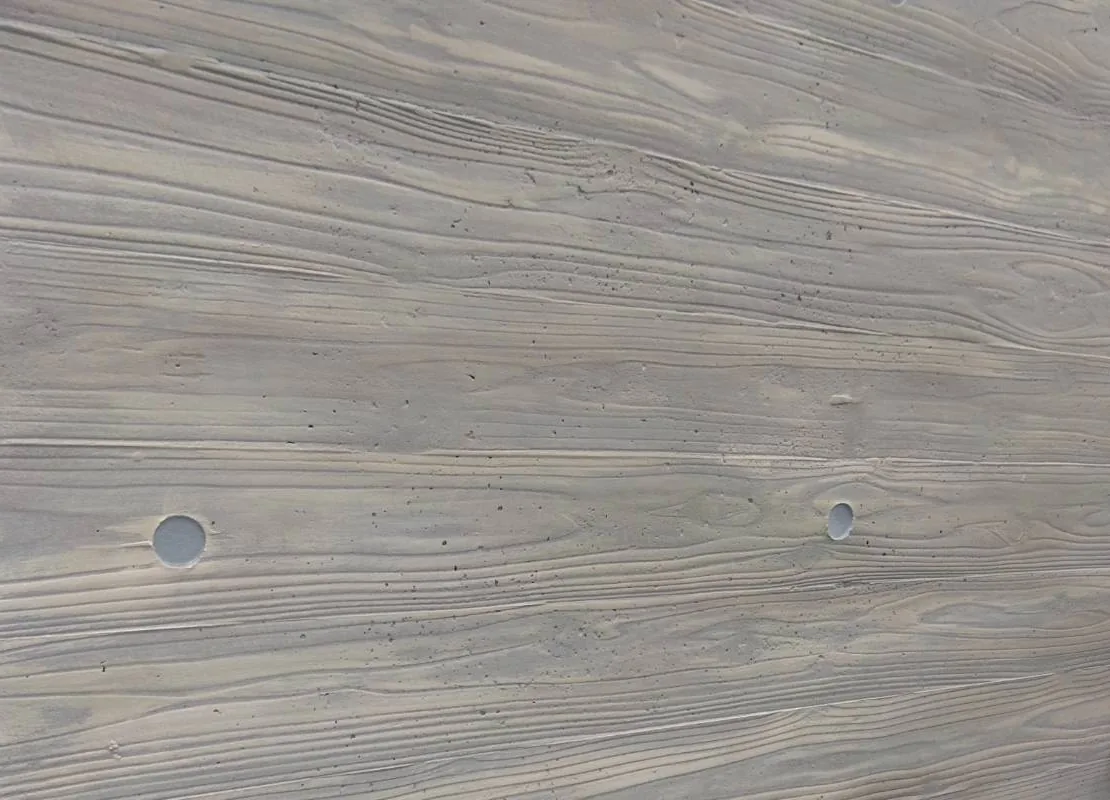
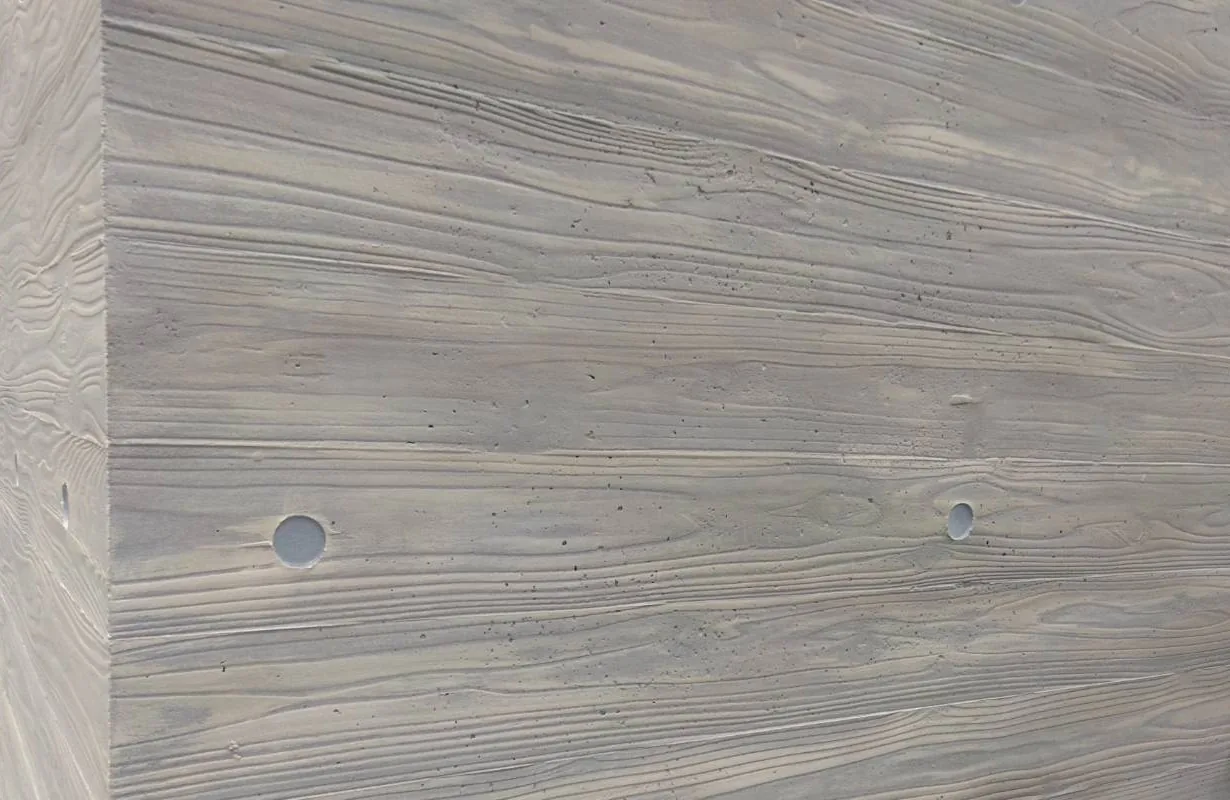
fix: Service と施工実績を md 以上で常に3列にし、文字の大きさ・位置を先方の構成例に合わせる
- Service タイルの文字を左下寄せ・小さめ（英字ラベル 10px、名前は太字16px）に。
  和文セクション見出しに .type-section-ja（24→32px）を追加し、Service /
  施工実績 / 発注フローで使う（構成例の控えめな見出しに合わせた）
- HYOHEKI パネルの文字も控えめに
- エイジングのタイル写真は自転車だけ外して壁の角を残す切り抜きに変え、
  縦長に切られても角が消えないよう左寄せで表示
- 施工実績カードはタグ・工期が狭い幅で折り返しても崩れないように

Claude-Session: https://claude.ai/code/session_01PLV7HwG22zN7FzoUgPtod7

diff --git a/src/components/ServiceTriptych.tsx b/src/components/ServiceTriptych.tsx
@@ -11,10 +11,11 @@ import { SERVICE_CATEGORY_LIST } from "@/lib/serviceCategories";
 // 上段: モルタル／内装／エイジング、下段: 特殊塗装／氷壁（2マス分）。
 // 氷壁だけ写真を2マス分に敷き、右半分を透かして説明文を載せ、看板商品として目立たせている。
 // （それ以前は上段3枚＋下段2枚の幅いっぱいのタイルだった）
-const TILE_IMAGES: Record<string, { img: string; alt: string }> = {
+const TILE_IMAGES: Record<string, { img: string; alt: string; position?: string }> = {
   mortar: { img: "/service-mortar.jpg", alt: "モルタル造形で仕上げた岩肌の壁" },
   interior: { img: "/service-interior.webp", alt: "曲面の什器で構成した店舗内装" },
-  aging: { img: "/service-aging.webp", alt: "木目を再現したエイジング塗装の壁" },
+  // 左端に壁の角を残した切り抜きなので、縦長に切られる PC でも角が消えないよう左寄せ
+  aging: { img: "/service-aging.webp", alt: "木目を再現したエイジング塗装の壁", position: "object-left" },
   special: { img: "/service-special.webp", alt: "特殊塗装による凹凸のある壁面" },
   hyoheki: { img: "/service-hyoheki.webp", alt: "氷壁で仕上げた通路" },
 };
@@ -71,8 +72,8 @@ export default function ServiceTriptych() {
           src={image.img}
           alt={image.alt}
           fill
-          className="object-cover"
-          sizes="(max-width: 768px) 100vw, (max-width: 1024px) 50vw, 33vw"
+          className={`object-cover ${image.position ?? ""}`}
+          sizes="(max-width: 768px) 100vw, 33vw"
         />
         {/* 商標登録出願中のバッジ。氷壁だけを他より目立たせる狙いなので、
             オーバーレイの外（画像の左上）に金枠で常時出している */}
@@ -80,11 +81,11 @@ export default function ServiceTriptych() {
           <span className="trademark-badge">商標登録出願中</span>
         )}
         <div className="triptych-overlay">
-          <div className="text-center">
-            <p className="type-meta uppercase tracking-[0.4em] text-gold mb-2">
+          <div>
+            <p className="text-[10px] uppercase tracking-[0.35em] text-gold mb-2">
               {cat.en}
             </p>
-            <p className="type-heading italic silver-grad">{cat.name}</p>
+            <p className="type-card-title font-bold text-white">{cat.name}</p>
           </div>
         </div>
       </a>
@@ -100,17 +101,16 @@ export default function ServiceTriptych() {
             見出し「事業内容・仕上げ技法」は 2026-09-17 の構成例に合わせて追加した */}
         <div className="text-center mb-10 md:mb-14">
           <p className="type-label text-gold mb-4">Service</p>
-          <h2 className="type-display-ja silver-grad">事業内容・仕上げ技法</h2>
+          <h2 className="type-section-ja silver-grad">事業内容・仕上げ技法</h2>
         </div>
 
-        {/* 列数: スマホ1列 → タブレット2列 → PC3列。2列でも「氷壁」と説明パネルは
-            3段目で隣り合う（5番目と6番目）ので、どの幅でも氷壁は2マス続きで見える */}
-        <div className="grid grid-cols-1 md:grid-cols-2 lg:grid-cols-3 md:auto-rows-fr gap-px bg-white/5">
+        {/* 列数: スマホ1列 → md 以上は先方の構成例どおり3列×2段 */}
+        <div className="grid grid-cols-1 md:grid-cols-3 md:auto-rows-fr gap-px bg-white/5">
           {SERVICE_CATEGORY_LIST.filter((c) => c.id !== "hyoheki").map((cat, i) => renderTile(cat, i))}
 
           {/* 氷壁: 2マス分に写真を1枚敷き、左半分は他と同じタイル（一覧へのリンク）、
               右半分は写真を暗く透かした上に説明文（先方指示「文字は透過させる」）。
-              タブレット（2列）では3段目の全幅、スマホ（1列）では写真の下に説明文が続く */}
+              スマホ（1列）では写真の下に説明文が続く */}
           <div
             className="tile-item opacity-0 relative overflow-hidden bg-[#0a0a0a] md:col-span-2"
             style={tileStyle(SERVICE_CATEGORY_LIST.length - 1)}
@@ -132,29 +132,30 @@ export default function ServiceTriptych() {
                   <span className="trademark-badge">商標登録出願中</span>
                 )}
                 <div className="triptych-overlay">
-                  <div className="text-center">
-                    <p className="type-meta uppercase tracking-[0.4em] text-gold mb-2">
+                  <div>
+                    <p className="text-[10px] uppercase tracking-[0.35em] text-gold mb-2">
                       {HYOHEKI.en}
                     </p>
-                    <p className="type-heading italic silver-grad">{HYOHEKI.name}</p>
+                    <p className="type-card-title font-bold text-white">{HYOHEKI.name}</p>
                   </div>
                 </div>
               </a>
 
               {/* 右: 写真を透かして文言。左端をわずかに明るく残して1枚の写真が続いて見えるようにする */}
               <div className="relative bg-gradient-to-r from-black/70 via-black/80 to-black/85">
-                <div className="h-full flex flex-col justify-center p-7 md:p-8 lg:p-10">
-                  <p className="type-meta uppercase tracking-[0.4em] text-gold mb-3">
+                {/* 文字の大きさは先方の構成例に合わせて控えめ（見出し 28〜36px、本文 12〜13px） */}
+                <div className="h-full flex flex-col justify-center p-6 md:p-6 lg:p-8">
+                  <p className="text-[10px] uppercase tracking-[0.35em] text-gold mb-3">
                     Signature Finish
                   </p>
                   <p className="font-heading text-white leading-none tracking-[0.04em]"
-                     style={{ fontSize: "clamp(2rem, 3.4vw, 2.75rem)" }}>
+                     style={{ fontSize: "clamp(1.75rem, 2.6vw, 2.25rem)" }}>
                     HYOHEKI
                   </p>
-                  <p className="type-body text-white/70 tracking-[0.3em] mt-2">- 氷壁 -</p>
-                  <div className="w-8 h-px bg-gold my-5" />
-                  <p className="type-body-sm text-white/85 leading-[1.9] mb-3">{HYOHEKI_LEAD}</p>
-                  <p className="type-body-sm text-white/60 leading-[1.9]">{HYOHEKI_BODY}</p>
+                  <p className="type-body-sm text-white/70 tracking-[0.3em] mt-2">- 氷壁 -</p>
+                  <div className="w-8 h-px bg-gold my-4" />
+                  <p className="text-[12px] lg:text-[13px] text-white/85 leading-[1.8] mb-3">{HYOHEKI_LEAD}</p>
+                  <p className="text-[12px] lg:text-[13px] text-white/60 leading-[1.8]">{HYOHEKI_BODY}</p>
                 </div>
               </div>
             </div>

diff --git a/src/components/WorksSection.tsx b/src/components/WorksSection.tsx
@@ -74,11 +74,11 @@ export default function WorksSection() {
             気の利いた別の言葉に置き換えないこと */}
         <div className="reveal text-center mb-14">
           <p className="type-label text-gold mb-4">Works</p>
-          <h2 className="type-display-ja silver-grad">施工実績</h2>
+          <h2 className="type-section-ja silver-grad">施工実績</h2>
         </div>
 
-        {/* 3枚のカード。lg 以上で3列、md で2列（3枚目は左寄せ）、それ未満は1列 */}
-        <div className="grid grid-cols-1 md:grid-cols-2 lg:grid-cols-3 gap-px bg-white/5">
+        {/* 3枚のカード。md 以上は先方の構成例どおり3列、それ未満は1列 */}
+        <div className="grid grid-cols-1 md:grid-cols-3 gap-px bg-white/5">
           {projects.map((project, i) => (
             <article
               key={project.title}
@@ -92,15 +92,15 @@ export default function WorksSection() {
                   alt={project.alt}
                   fill
                   className="object-cover"
-                  sizes="(max-width: 768px) 100vw, (max-width: 1024px) 50vw, 33vw"
+                  sizes="(max-width: 768px) 100vw, 33vw"
                 />
                 <div className="absolute inset-0 bg-black/15" />
               </div>
 
-              <div className="p-6 md:p-8">
+              <div className="p-6 md:p-5 lg:p-8">
                 {/* 分類タグ（金の細枠）と場所 */}
-                <div className="flex items-center justify-between mb-6">
-                  <span className="type-meta uppercase tracking-[0.25em] text-gold
+                <div className="flex flex-wrap items-center justify-between gap-2 mb-6">
+                  <span className="type-meta uppercase tracking-[0.25em] text-gold whitespace-nowrap
                                    border border-gold/50 px-3 py-1">
                     {project.tag}
                   </span>
@@ -116,9 +116,10 @@ export default function WorksSection() {
 
                 {/* 工期と技法。値だけ白にして読み取りやすくする */}
                 <div className="mt-6 pt-4 border-t border-white/10
-                                flex items-center justify-between type-meta uppercase tracking-[0.15em] text-white/45">
-                  <span>Duration: <span className="text-white/75">{project.duration}</span></span>
-                  <span>Tech: <span className="text-white/75">{project.tech}</span></span>
+                                flex flex-wrap items-center justify-between gap-x-4 gap-y-1
+                                type-meta uppercase tracking-[0.15em] text-white/45">
+                  <span className="whitespace-nowrap">Duration: <span className="text-white/75">{project.duration}</span></span>
+                  <span className="whitespace-nowrap">Tech: <span className="text-white/75">{project.tech}</span></span>
                 </div>
               </div>
             </article>

diff --git a/src/app/globals.css b/src/app/globals.css
@@ -95,6 +95,7 @@ body {
      段階（スマホ → PC）:
        .type-display     48 → 72px   銀の大見出し・欧文
        .type-display-ja  28 → 44px   銀の大見出し・和文
+       .type-section-ja  24 → 32px   和文のセクション見出し（Service/Works/発注フロー。先方の構成例に合わせ小さめ）
        .type-heading     20 → 28px   中見出し（理念の一文、サービス名）
        .type-card-title  16px        カードの見出し
        .type-label       14 → 15px   金の小ラベル＝セクション名
@@ -135,6 +136,16 @@ body {
     font-size: clamp(1.75rem, 6vw, 2.75rem); /* 28 → 44px */
     letter-spacing: 0.06em;
     line-height: 1.35;
+  }
+
+  /* 和文のセクション見出し（小）。2026-09-17 の先方構成例では「事業内容・仕上げ技法」
+     「施工実績」「発注フロー」が 28px 程度の控えめな見出しだったので、それに合わせた段階。
+     書体は他の銀の見出しと同じ Cormorant（和文は明朝にフォールバック） */
+  .type-section-ja {
+    font-family: var(--font-cormorant), Georgia, serif;
+    font-size: clamp(1.5rem, 3vw, 2rem); /* 24 → 32px */
+    letter-spacing: 0.08em;
+    line-height: 1.4;
   }
 
   /* 中見出し。折り返すときに1行目だけ長くならないよう text-wrap: balance を効かせる
@@ -297,11 +308,12 @@ body {
   background:
     linear-gradient(to top, rgba(0,0,0,0.55) 0%, rgba(0,0,0,0.15) 45%, rgba(0,0,0,0) 70%),
     rgba(0,0,0,0.38);
+  /* 文字は左下寄せ（2026-09-17 の先方構成例に合わせた。それ以前は中央寄せだった） */
   display: flex;
   flex-direction: column;
-  align-items: center;
+  align-items: flex-start;
   justify-content: flex-end;
-  padding: 32px;
+  padding: 24px 28px;
   transition: background 0.4s ease;
 }
 .triptych-item:hover .triptych-overlay {

diff --git a/src/components/OrderFlow.tsx b/src/components/OrderFlow.tsx
@@ -34,7 +34,7 @@ export default function OrderFlow() {
       <div className="text-center mb-12">
         {/* 金の小ラベル＝セクション名（ハンバーガーメニューの FLOW と一致させる） */}
         <p className="type-label text-gold mb-4">Order Process</p>
-        <h2 className="type-display-ja silver-grad">発注フロー</h2>
+        <h2 className="type-section-ja silver-grad">発注フロー</h2>
       </div>
 
       <ol>
